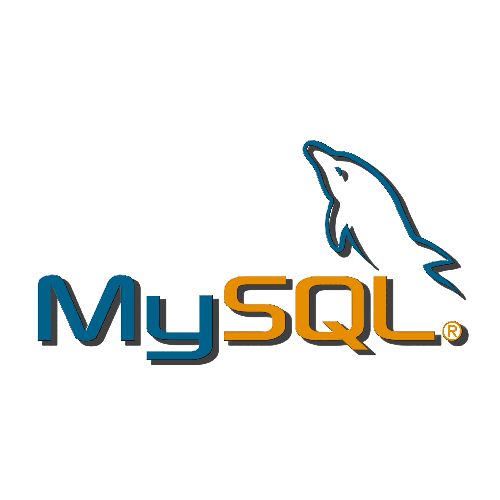
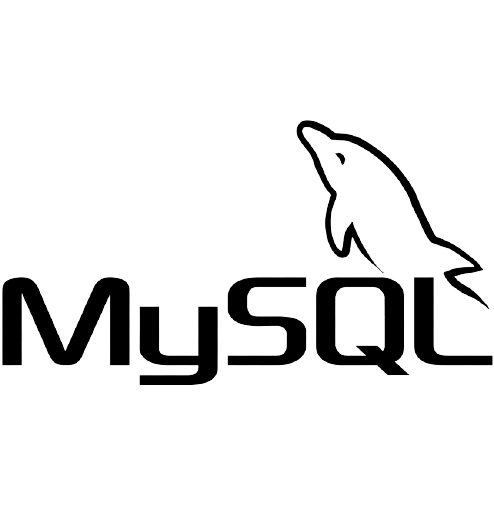
edit

Changed region(s): [[0.0, 0.24, 1.0, 0.78], [0.9717, 0.6, 1.0, 0.63]]

diff --git a/index.html b/index.html
@@ -113,10 +113,10 @@
                     <img src=" assets/img/typescript.png" alt="typescript" class="skills__img" width="70">
                     <img src=" assets/img/python.png" alt="python" class="skills__img" width="90" height="90" >
                     <img src=" assets/img/flutter.png" alt="flutter" class="skills__img" width="90" height="90" >
-                    <img src=" assets/img/git.png" alt="git" class="skills__img" width="55" height="55" >
+                    <img src=" assets/img/git.png" alt="git" class="skills__img" width="55" height="55" style="margin-left: 15px;">
                     <img src=" assets/img/firebase.png" alt="firebase" class="skills__img" width="55" height="55">
-                    <img src=" assets/img/mysql.png" alt="mysql" class="skills__img" width="100" height="100">
-                    <img src=" assets/img/wordpress.png" alt="mysql" class="skills__img" width="75" height="75" >
+                    <img src=" assets/img/mysql.png" alt="mysql" class="skills__img" width="100" height="100" style="margin-top: -30px; margin-left: -10px;">
+                    <img src=" assets/img/wordpress.png" alt="mysql" class="skills__img" width="55" height="55" style="margin-top: -5px; margin-left: 20px;" >
                   
 
                 </div>
@@ -163,7 +163,7 @@
                     <img class="projects__image" src="assets/img/quizapp.png" alt="quizapp">
                     <h3 class="projects__name">Quiz App</h3>
                     <p class="projects__description">React Quiz App </p>
-                    <a href="https://www.tmeghaquizapp.netlify.app/" class="projects__link">
+                    <a href="https://tmeghaquizcard.netlify.app/" class="projects__link">
                         Explore Project
                     </a>
                 </div>
@@ -188,6 +188,14 @@
                     <h3 class="projects__name">Covid 19 tracker</h3>
                     <p class="projects__description">Covid Statistics Worldwide</p>
                     <a href="https://covid-statistics-worldwide.netlify.app/" class="projects__link">
+                        Explore Project
+                    </a>
+                </div>
+                <div class="projects__box">
+                    <img class="projects__image" src="assets/img/portfolio.png" alt="T'megha Portfolio">
+                    <h3 class="projects__name">T'megha</h3>
+                    <p class="projects__description">My Portfolio Website</p>
+                    <a href="#" class="projects__link">
                         Explore Project
                     </a>
                 </div>
@@ -257,7 +265,7 @@
                             <div class="field textarea">
                                 <textarea cols="30" rows="10" placeholder="Project Description.." required></textarea>
                             </div>
-                            <button class="button" type="submit" value="Submit">Shoot</button>
+                            <button class="button" type="submit" value="Submit">Shoot <i class="fab fa-telegram-plane"></i></button>
                         </form>
                     </div>
                 </div>
@@ -266,6 +274,9 @@
  
     <!--===== FOOTER =====-->
     <footer class="footer">
+            <div class="btnScrollToTop">
+                <a href="#hero"><i class="fas fa-chevron-up"></i></a>
+            </div>
         <p class="footer__title">Designed & Developed by T'megha</p>
         <div class="footer__social">
             <a href="https://www.linkedin.com/in/akinmeghatemitope/" class="footer__icon"><i
@@ -275,37 +286,7 @@
             <a href="mailto: temitopeakinmegha.com" class="footer__icon"><i class='fa fa-envelope'></i></a>
         </div>
                 <div id="clock">00:00:00</div>
-                <script>
-                    setInterval(showTime, 1000);
-                    function showTime() {
-                        let time = new Date();
-                        let hour = time.getHours();
-                        let min = time.getMinutes();
-                        let sec = time.getSeconds();
-                        am_pm = "AM";
-            
-                        if (hour > 12) {
-                            hour -= 12;
-                            am_pm = "PM";
-                        }
-                        if (hour == 0) {
-                            hr = 12;
-                            am_pm = "AM";
-                        }
-            
-                        hour = hour < 10 ? "0" + hour : hour;
-                        min = min < 10 ? "0" + min : min;
-                        sec = sec < 10 ? "0" + sec : sec;
-            
-                        let currentTime = hour + ":" 
-                            + min + ":" + sec + am_pm;
-            
-                        document.getElementById("clock")
-                            .innerHTML = currentTime;
-                    }
-            
-                    showTime();
-        </script>
+               
         <p>Copyright &copy;
             <script>document.write(new Date().getFullYear());</script> All rights reserved | T'megha
         </p>

diff --git a/assets/js/main.js b/assets/js/main.js
@@ -124,13 +124,13 @@ sr.reveal('.contact__input',{interval: 200});
 
 // typing text animation script
 var typed = new Typed(".type", {
-	strings: ["A FrontEnd Software Engineer", "An IT Systems Engineer","A Mobile App Developer", "An IT Consultant", "A Seasoned Tutor"],
+	strings: ["A FrontEnd Software Engineer", "An IT Systems Engineer","A Mobile App Developer", "An IT Consultant", "A Technical Writer"],
 	typeSpeed: 100,
 	backSpeed: 60,
 	loop: true
 });
 
-
+// Begin: Theme Toggle
 
 const themeToggle = document.getElementById('theme-toggle')
 const darkTheme = 'dark-theme'
@@ -154,6 +154,10 @@ themeToggle.addEventListener('click', () => {
     localStorage.setItem('selected-icon', getCurrentIcon())
 });
 
+// End: Theme Toggle
+
+// Begin :Whatsapp Link
+
 (function () {
         var options = {
             whatsapp: "+2348112785465", // WhatsApp number
@@ -164,4 +168,46 @@ themeToggle.addEventListener('click', () => {
         var s = document.createElement('script'); s.type = 'text/javascript'; s.async = true; s.src = url + '/widget-send-button/js/init.js';
         s.onload = function () { WhWidgetSendButton.init(host, proto, options); };
         var x = document.getElementsByTagName('script')[0]; x.parentNode.insertBefore(s, x);
-    })();
+})();
+    
+//End: Whatsapp Link
+
+    // Begin: footer time
+    setInterval(showTime, 1000);
+    function showTime() {
+        let time = new Date();
+        let hour = time.getHours();
+        let min = time.getMinutes();
+        let sec = time.getSeconds();
+        am_pm = "AM";
+
+        if (hour > 12) {
+            hour -= 12;
+            am_pm = "PM";
+        }
+        if (hour == 0) {
+            hr = 12;
+            am_pm = "AM";
+        }
+
+        hour = hour < 10 ? "0" + hour : hour;
+        min = min < 10 ? "0" + min : min;
+        sec = sec < 10 ? "0" + sec : sec;
+
+        let currentTime = hour + ":" 
+            + min + ":" + sec + am_pm;
+
+        document.getElementById("clock")
+            .innerHTML = currentTime;
+    }
+
+showTime();
+//End: footer time
+
+const btnScrollToTop = document.querySelector('.btnScrollToTop');
+
+btnScrollToTop.addEventListener("click", function() {
+ 
+    $("html, body").animate({ scrollTop: 0 }, "slow");
+ 
+})

diff --git a/assets/css/styles.css b/assets/css/styles.css
@@ -75,6 +75,14 @@ body.dark-theme {
   transition: 0.3s;
 }
 
+@media screen and (min-width: 240px) and (max-width: 480px) {
+  .change-theme i {
+    font-size: 20px;
+    margin-left: 20px;
+    padding-bottom: 50px;
+  }
+}
+
 .change-theme i:hover {
   color: black;
   transition: 0.3s;
@@ -498,6 +506,7 @@ img {
   display: flex;
   justify-content: center;
   align-items: center;
+  margin-top: -100px;
   margin-left: auto;
 }
 
@@ -642,6 +651,7 @@ img {
     transform: translate(-50%, -50%);
     justify-content: center;
     align-items: center;
+    margin-top: 100px;
   }
  
 }
@@ -824,15 +834,22 @@ img {
   margin-bottom: 7px;
 }
 
-@media screen and (max-width: 767px) {
+@media screen and (min-width: 240px) and (max-width: 480px) {
    .contact-content .left .text {
     text-align: start;
   }
   .contact-content .right .text {
     text-align: start; /* For Edge */
     text-align-last: justify;
-
-  }
+}
+.contact-content .right {
+  display: block;
+  align-content: center;
+  justify-items: center;
+  margin-left: -18px;
+  margin-right: 9px;
+  overflow: hidden;
+}
   .contact-content .left .sub-title{
     align-items: flex-start;
   }
@@ -915,6 +932,29 @@ img {
   border: none;
 }
 
+.btnScrollToTop {
+  background-color: hsl(220, 29%, 10%);
+  border-radius: 100%;
+  position: relative;
+  top: -4rem;
+  left: 50%;
+  width: 4.5rem;
+  height: 4.5rem;
+  transform: translateX(-50%);
+}
+
+
+.btnScrollToTop i {
+  display: block;
+  color:  #fff;
+  font-size: 1.5rem;
+  padding: 1rem;
+  animation-name: showsUp;
+  animation-duration: 2s;
+  animation-iteration-count: infinite;
+}
+
+
 /* ===== FOOTER =====*/
 .footer {
   background-color: hsl(220, 29%, 10%);
@@ -923,11 +963,11 @@ img {
   font-family: 'Irish Grover', cursive;;
   padding: 2rem 0;
   margin-top: 50px;
-;
 }
 .footer__title {
   font-size: 1.0rem;
-  margin-bottom: var(--mb-1);
+  margin-bottom: var(--mb-2);
+  margin-top: -60px;
 }
 .footer__social {
   margin-bottom: var(--mb-1);
@@ -1035,6 +1075,22 @@ img {
   }
 }
 
+/* Animations */
+
+@keyframes showsUp {
+  0% {
+      opacity: 0;
+  }
+
+  50% {
+      opacity: 1;
+  }
+
+  100% {
+      opacity: 0;
+      transform: translateY(-1rem);
+  }
+}
 
 
 
